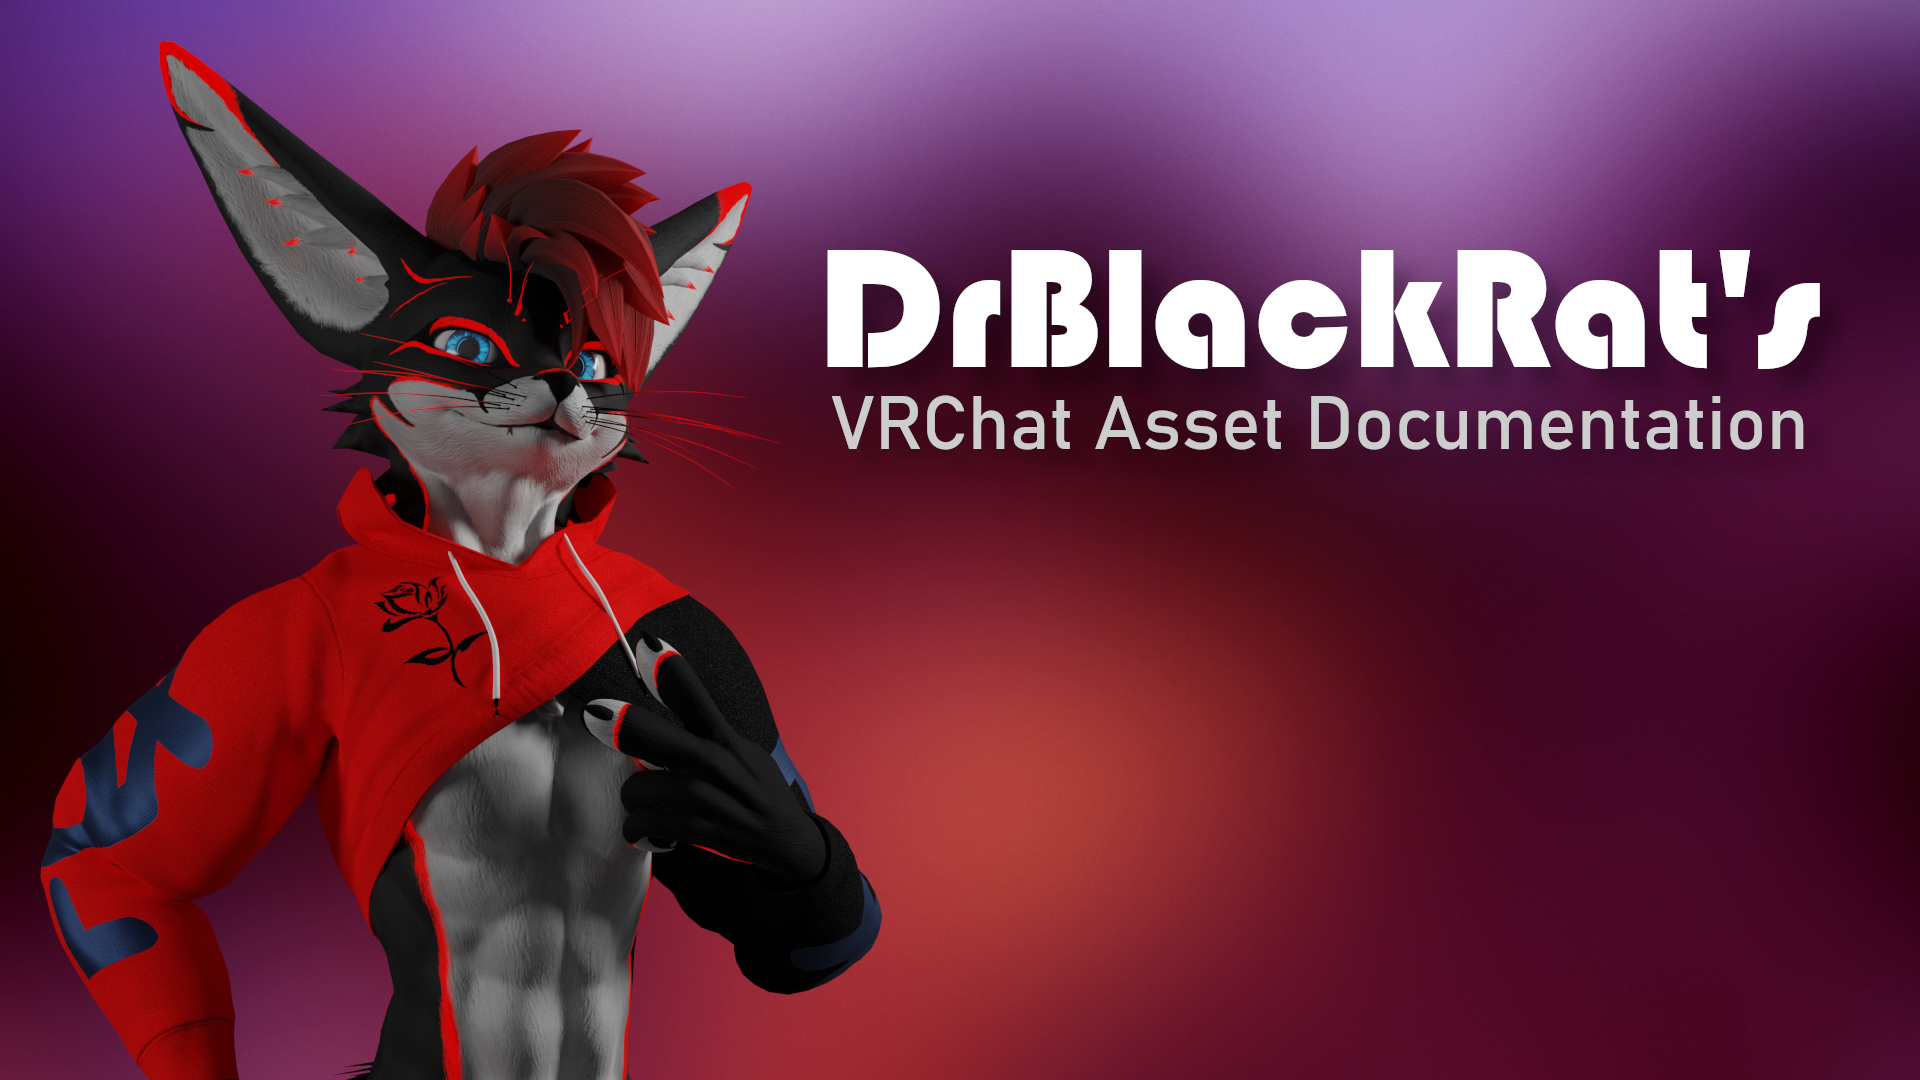
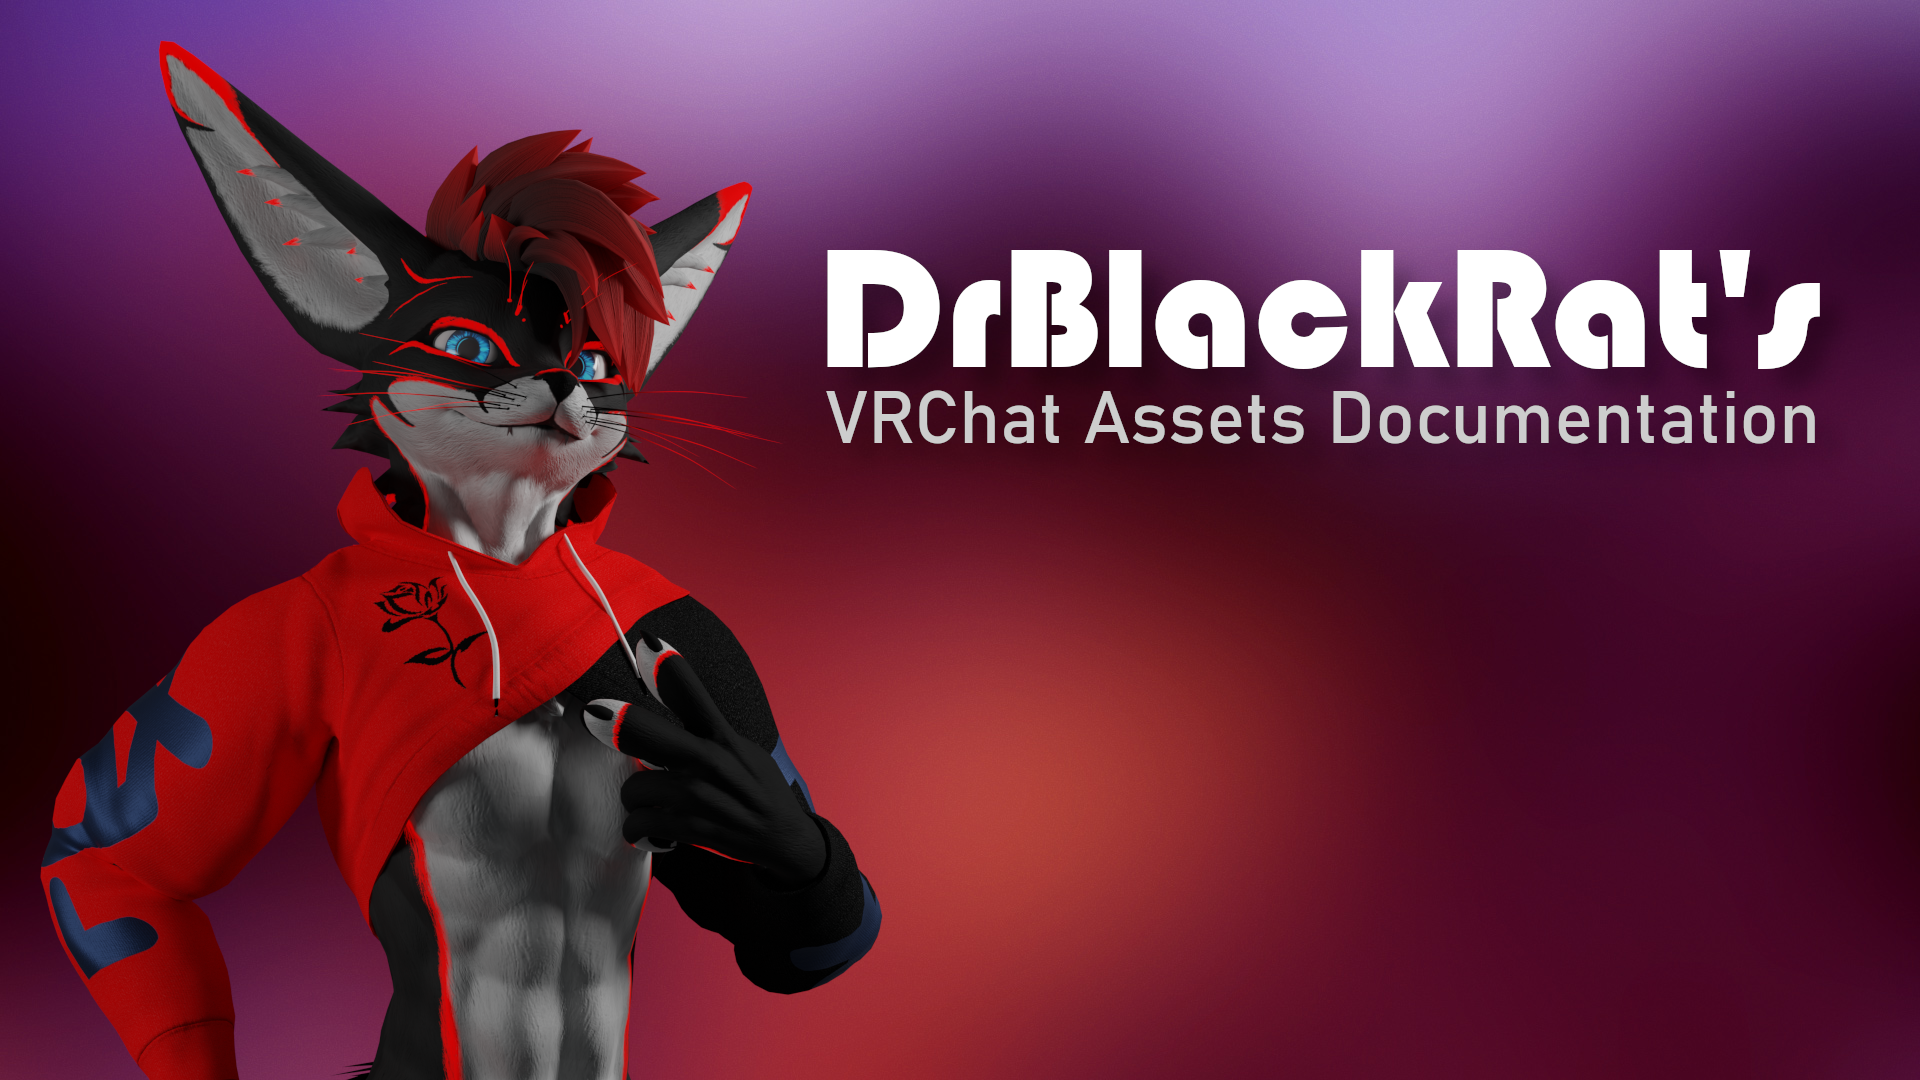
Updated URL and Name

Changed region(s): [[0.4375, 0.3667, 0.9688, 0.4278]]

diff --git a/docusaurus.config.js b/docusaurus.config.js
@@ -10,12 +10,12 @@ import {themes as prismThemes} from 'prism-react-renderer';
 
 /** @type {import('@docusaurus/types').Config} */
 const config = {
-  title: 'DrBlackRat\'s VRC Asset Docs',
+  title: 'DrBlackRat\'s VRC Assets Docs',
   tagline: 'Documentation for DrBlackRat\'s VRChat Assets',
   favicon: 'img/favicon.ico',
 
   // Set the production url of your site here
-  url: 'https://vrc-docs.drblackrat.xyz',
+  url: 'https://docs.drblackrat.xyz',
   // Set the /<baseUrl>/ pathname under which your site is served
   // For GitHub pages deployment, it is often '/<projectName>/'
   baseUrl: '/',
@@ -23,7 +23,7 @@ const config = {
   // GitHub pages deployment config.
   // If you aren't using GitHub pages, you don't need these.
   organizationName: 'DrBlackRat', // Usually your GitHub org/user name.
-  projectName: 'VRC-Asset-Docs', // Usually your repo name.
+  projectName: 'VRC-Assets-Docs', // Usually your repo name.
   trailingSlash: false,
 
   onBrokenLinks: 'throw',
@@ -69,7 +69,7 @@ const config = {
       // Replace with your project's social card
       image: 'img/docs-thumbnail.png',
       navbar: {
-        title: 'DrBlackRat\'s VRC Asset Docs',
+        title: 'DrBlackRat\'s VRC Assets Docs',
         logo: {
           alt: 'DrBlackRat\s Logo',
           src: 'img/logo.png',
@@ -117,6 +117,15 @@ const config = {
               {
                 label: 'GitHub',
                 href: 'https://github.com/DrBlackRat',
+              },
+            ],
+          },
+          {
+            title: 'Contact',
+            items: [
+              {
+                label: 'Email',
+                href: 'mailto:contact@drblackrat.xyz',
               },
             ],
           },
